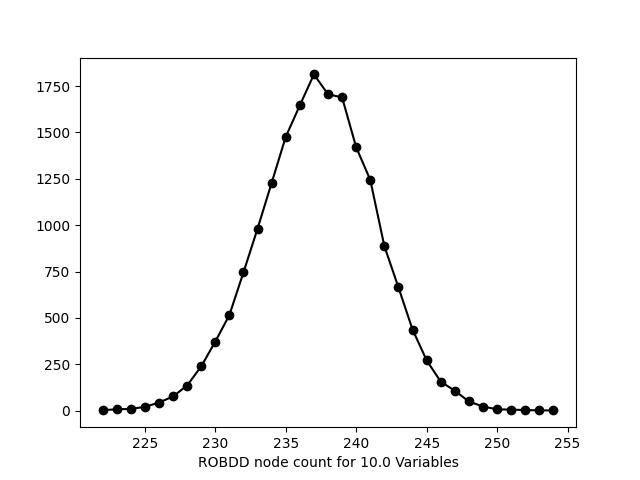
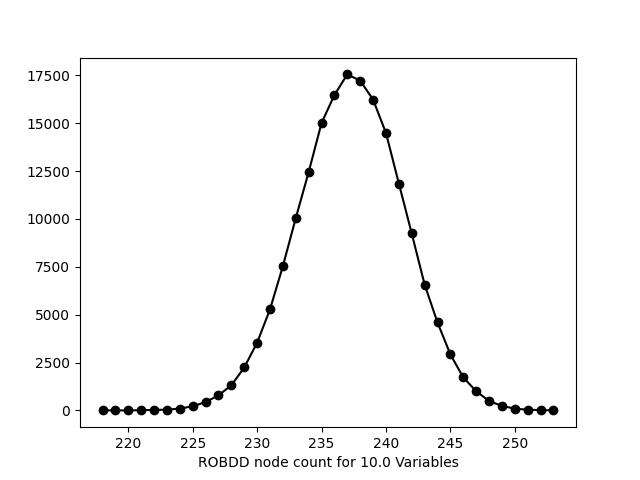
FigureUpdates

diff --git a/Figures/plotGenerator.py b/Figures/plotGenerator.py
@@ -1,5 +1,4 @@
 import matplotlib.pyplot as plt
-from matplotlib.ticker import StrMethodFormatter
 
 import numpy as np
 import os
@@ -46,6 +45,6 @@ def generateFigure(nbVar, YnbFunction, XnodeCount):
 testDirFiles = os.listdir(currentDir +
                           "/../Visualisation/ExaustiveTestResults")
 testDirFiles = [
-    currentDir+"/../Visualisation/ExaustiveTestResults/" + elm for elm in testDirFiles]
+    currentDir+"/../Visualisation/ExaustiveTestResults/" + elm for elm in testDirFiles if elm.endswith(".txt")]
 for file in testDirFiles:
     parse_file(file)

diff --git a/src/tests/tree.test.cpp b/src/tests/tree.test.cpp
@@ -220,12 +220,12 @@ void generate_figures_data()
 
     // test_extensive(5);
 
-    test_sampling(5, 500003);
-    test_sampling(6, 400003);
-    test_sampling(7, 486892);
-    test_sampling(8, 56343);
-    test_sampling(9, 94999);
-    test_sampling(10, 17975);
+    test_sampling(5, 500003 * 10);
+    test_sampling(6, 400003 * 10);
+    test_sampling(7, 486892 * 10);
+    test_sampling(8, 56343 * 10);
+    test_sampling(9, 94999 * 10);
+    test_sampling(10, 17975 * 10);
 }
 
 int main(int argc, char **argv)
